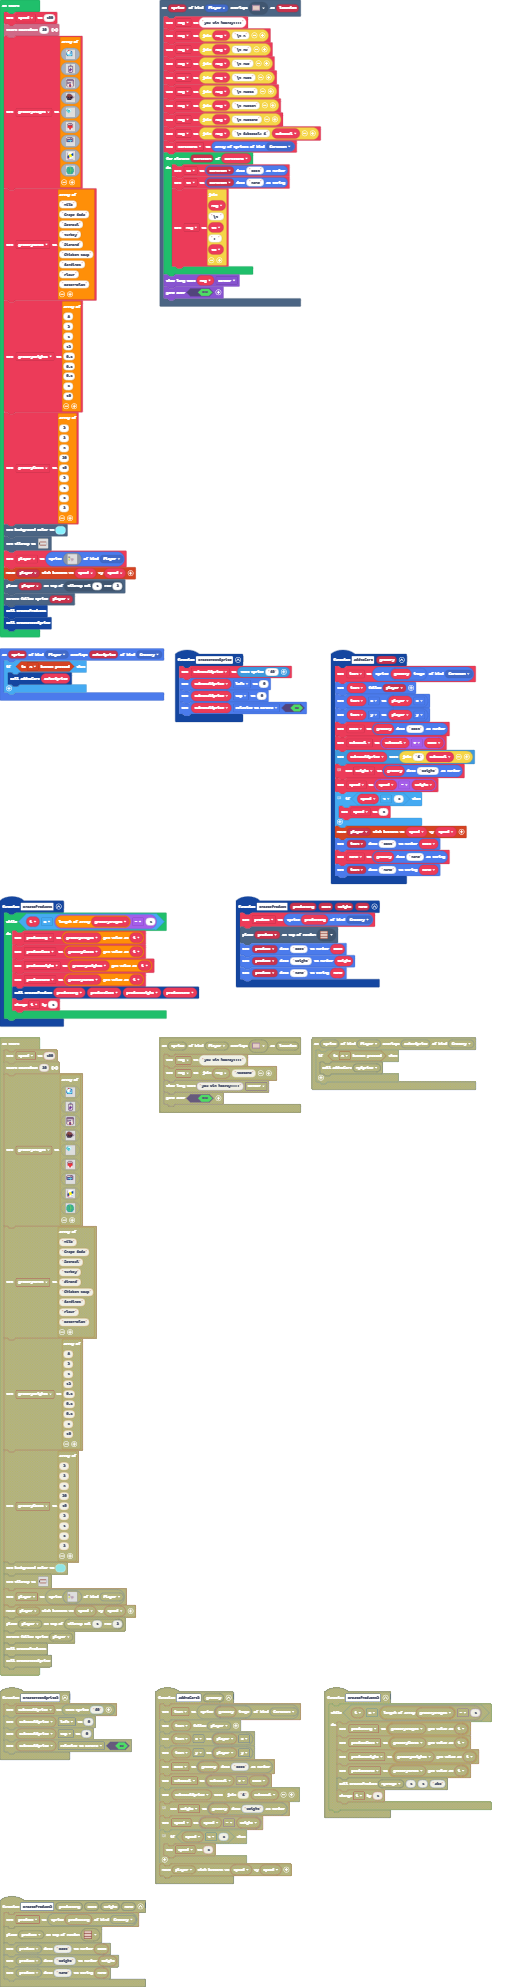
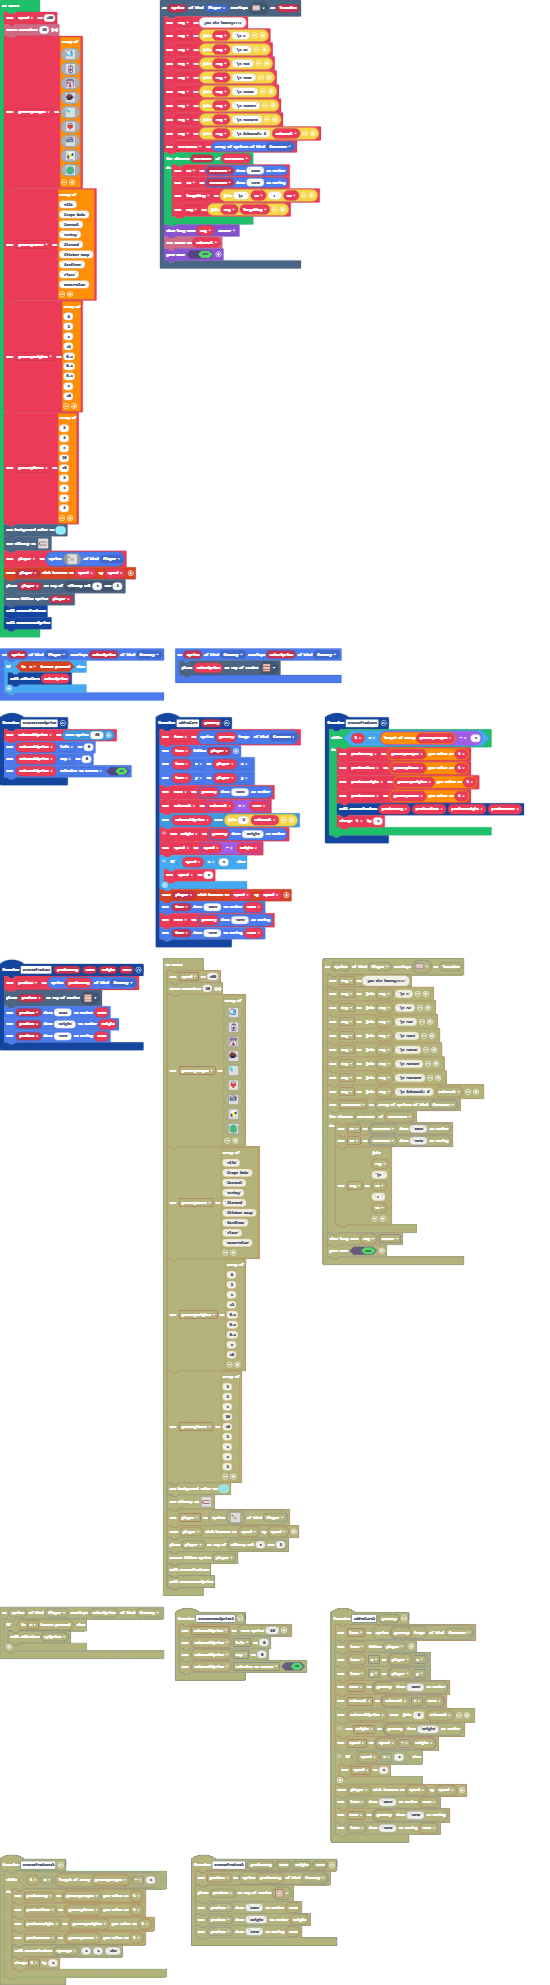
Update pxt.json, main.blocks, main.ts

diff --git a/main.ts b/main.ts
@@ -2,6 +2,9 @@ namespace SpriteKind {
     export const Grocery = SpriteKind.create()
     export const CartItem = SpriteKind.create()
 }
+sprites.onOverlap(SpriteKind.Grocery, SpriteKind.Grocery, function (sprite, otherSprite) {
+    tiles.placeOnRandomTile(otherSprite, assets.tile`tile1`)
+})
 sprites.onOverlap(SpriteKind.Player, SpriteKind.Grocery, function (sprite, otherSprite) {
     if (controller.A.isPressed()) {
         addToCart(otherSprite)
@@ -27,10 +30,11 @@ scene.onOverlapTile(SpriteKind.Player, assets.tile`tile10`, function (sprite, lo
     for (let cartItem of cartItems) {
         tc = sprites.readDataNumber(cartItem, "cost")
         tn = sprites.readDataString(cartItem, "name")
-        let longthing = "\\n " + tn + ": " + tc
-        msg = msg + longthing
+        longthing = "\\n " + tn + ": " + tc
+        msg = "" + msg + longthing
     }
     game.showLongText(msg, DialogLayout.Center)
+    info.setScore(subtotal)
     game.over(true)
 })
 function addToCart (grocery: Sprite) {
@@ -80,6 +84,7 @@ let name = ""
 let weight = 0
 let cost = 0
 let item: Sprite = null
+let longthing = ""
 let tn = ""
 let tc = 0
 let cartItems: Sprite[] = []
